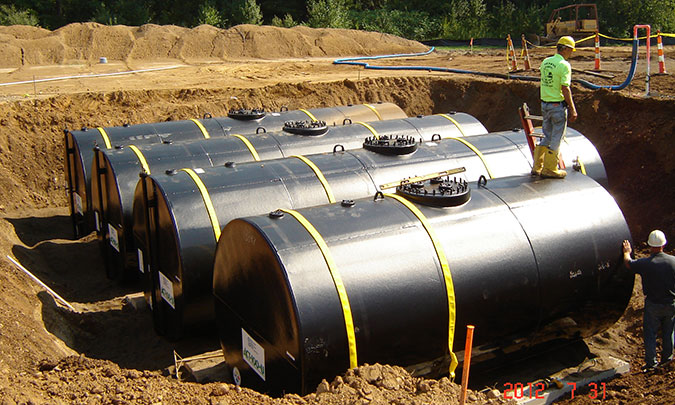
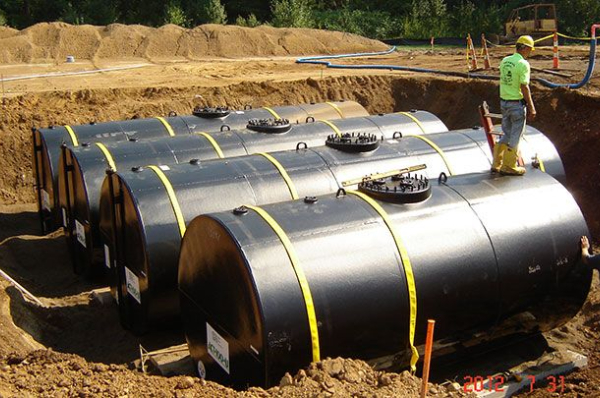
Correção de imagens

diff --git a/pages/sobre.html b/pages/sobre.html
@@ -549,7 +549,7 @@
             <h3>Gabriel Vieira</h3>
           </div>
           <div class="team-card">
-            <div class="team-photo team-photo-placeholder"><img src="../imgs/gabiequipe.jpeg" alt="Gabriela"></div>
+            <div class="team-photo team-photo-placeholder"><img src="../imgs/gabiequipe.jpg" alt="Gabriela"></div>
             <div class="role">Desenvolvedora</div>
             <h3>Gabriela Vieira</h3>
           </div>
